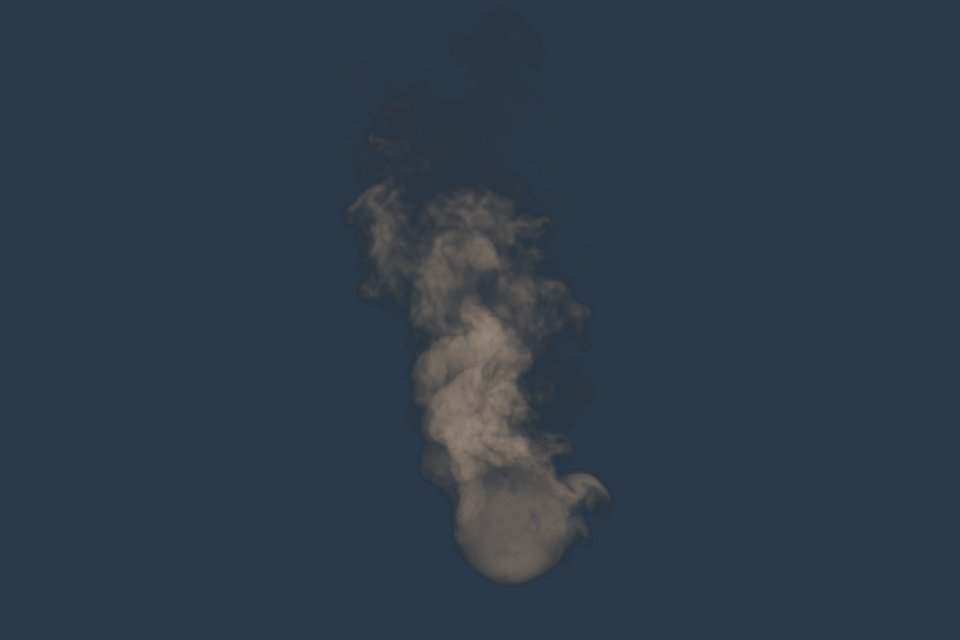
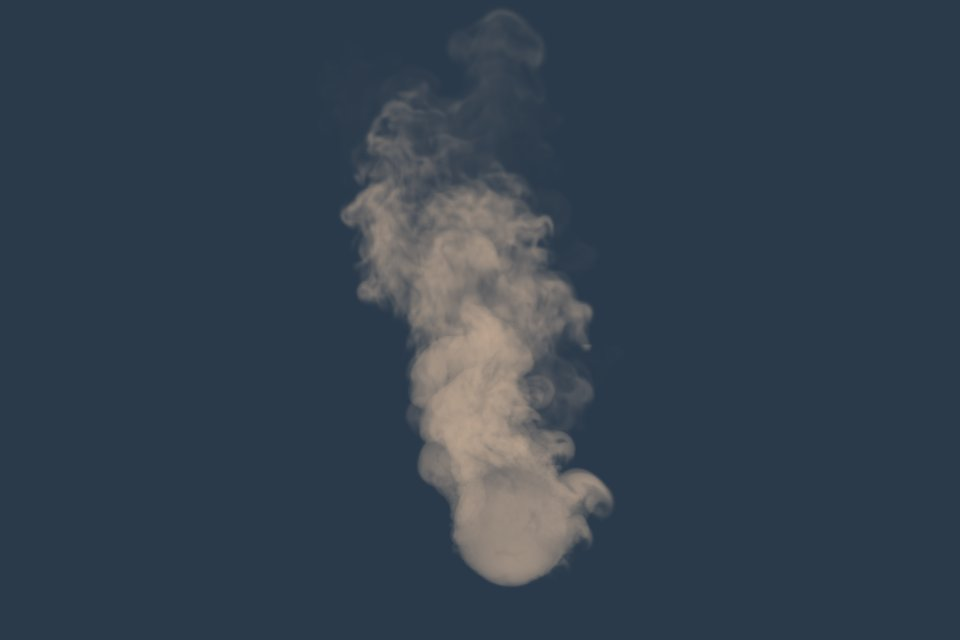
Fix example shading

Changed region(s): [[0.3438, 0.125, 0.6562, 0.9375], [0.5, 0.0625, 0.5312, 0.0938], [0.5, 0.0, 0.5312, 0.0312]]

diff --git a/examples/index.html b/examples/index.html
@@ -213,7 +213,7 @@
 
 					vec3 blackbody( float t ) {
 
-						float k = mix( 8.0, 65.0, clamp( t, 0.0, 1.0 ) );
+						float k = mix( 10.0, 40.0, clamp( t, 0.0, 1.0 ) );
 
 						return clamp( vec3(
 							1.0,
@@ -259,7 +259,7 @@
 							float d = density( value ) * opacity;
 
 							ac.rgb += ( 1.0 - ac.a ) * d * shade( value );
-							ac.a += ( 1.0 - ac.a ) * d;
+							ac.a += ( 1.0 - ac.a ) * d * ( mode == 1 ? 0.5 : 1.0 );
 
 							if ( ac.a >= 0.95 ) break;
 
@@ -291,7 +291,8 @@
 					vertexShader,
 					fragmentShader,
 					side: THREE.BackSide,
-					transparent: true
+					transparent: true,
+					premultipliedAlpha: true
 				} );
 
 			}
